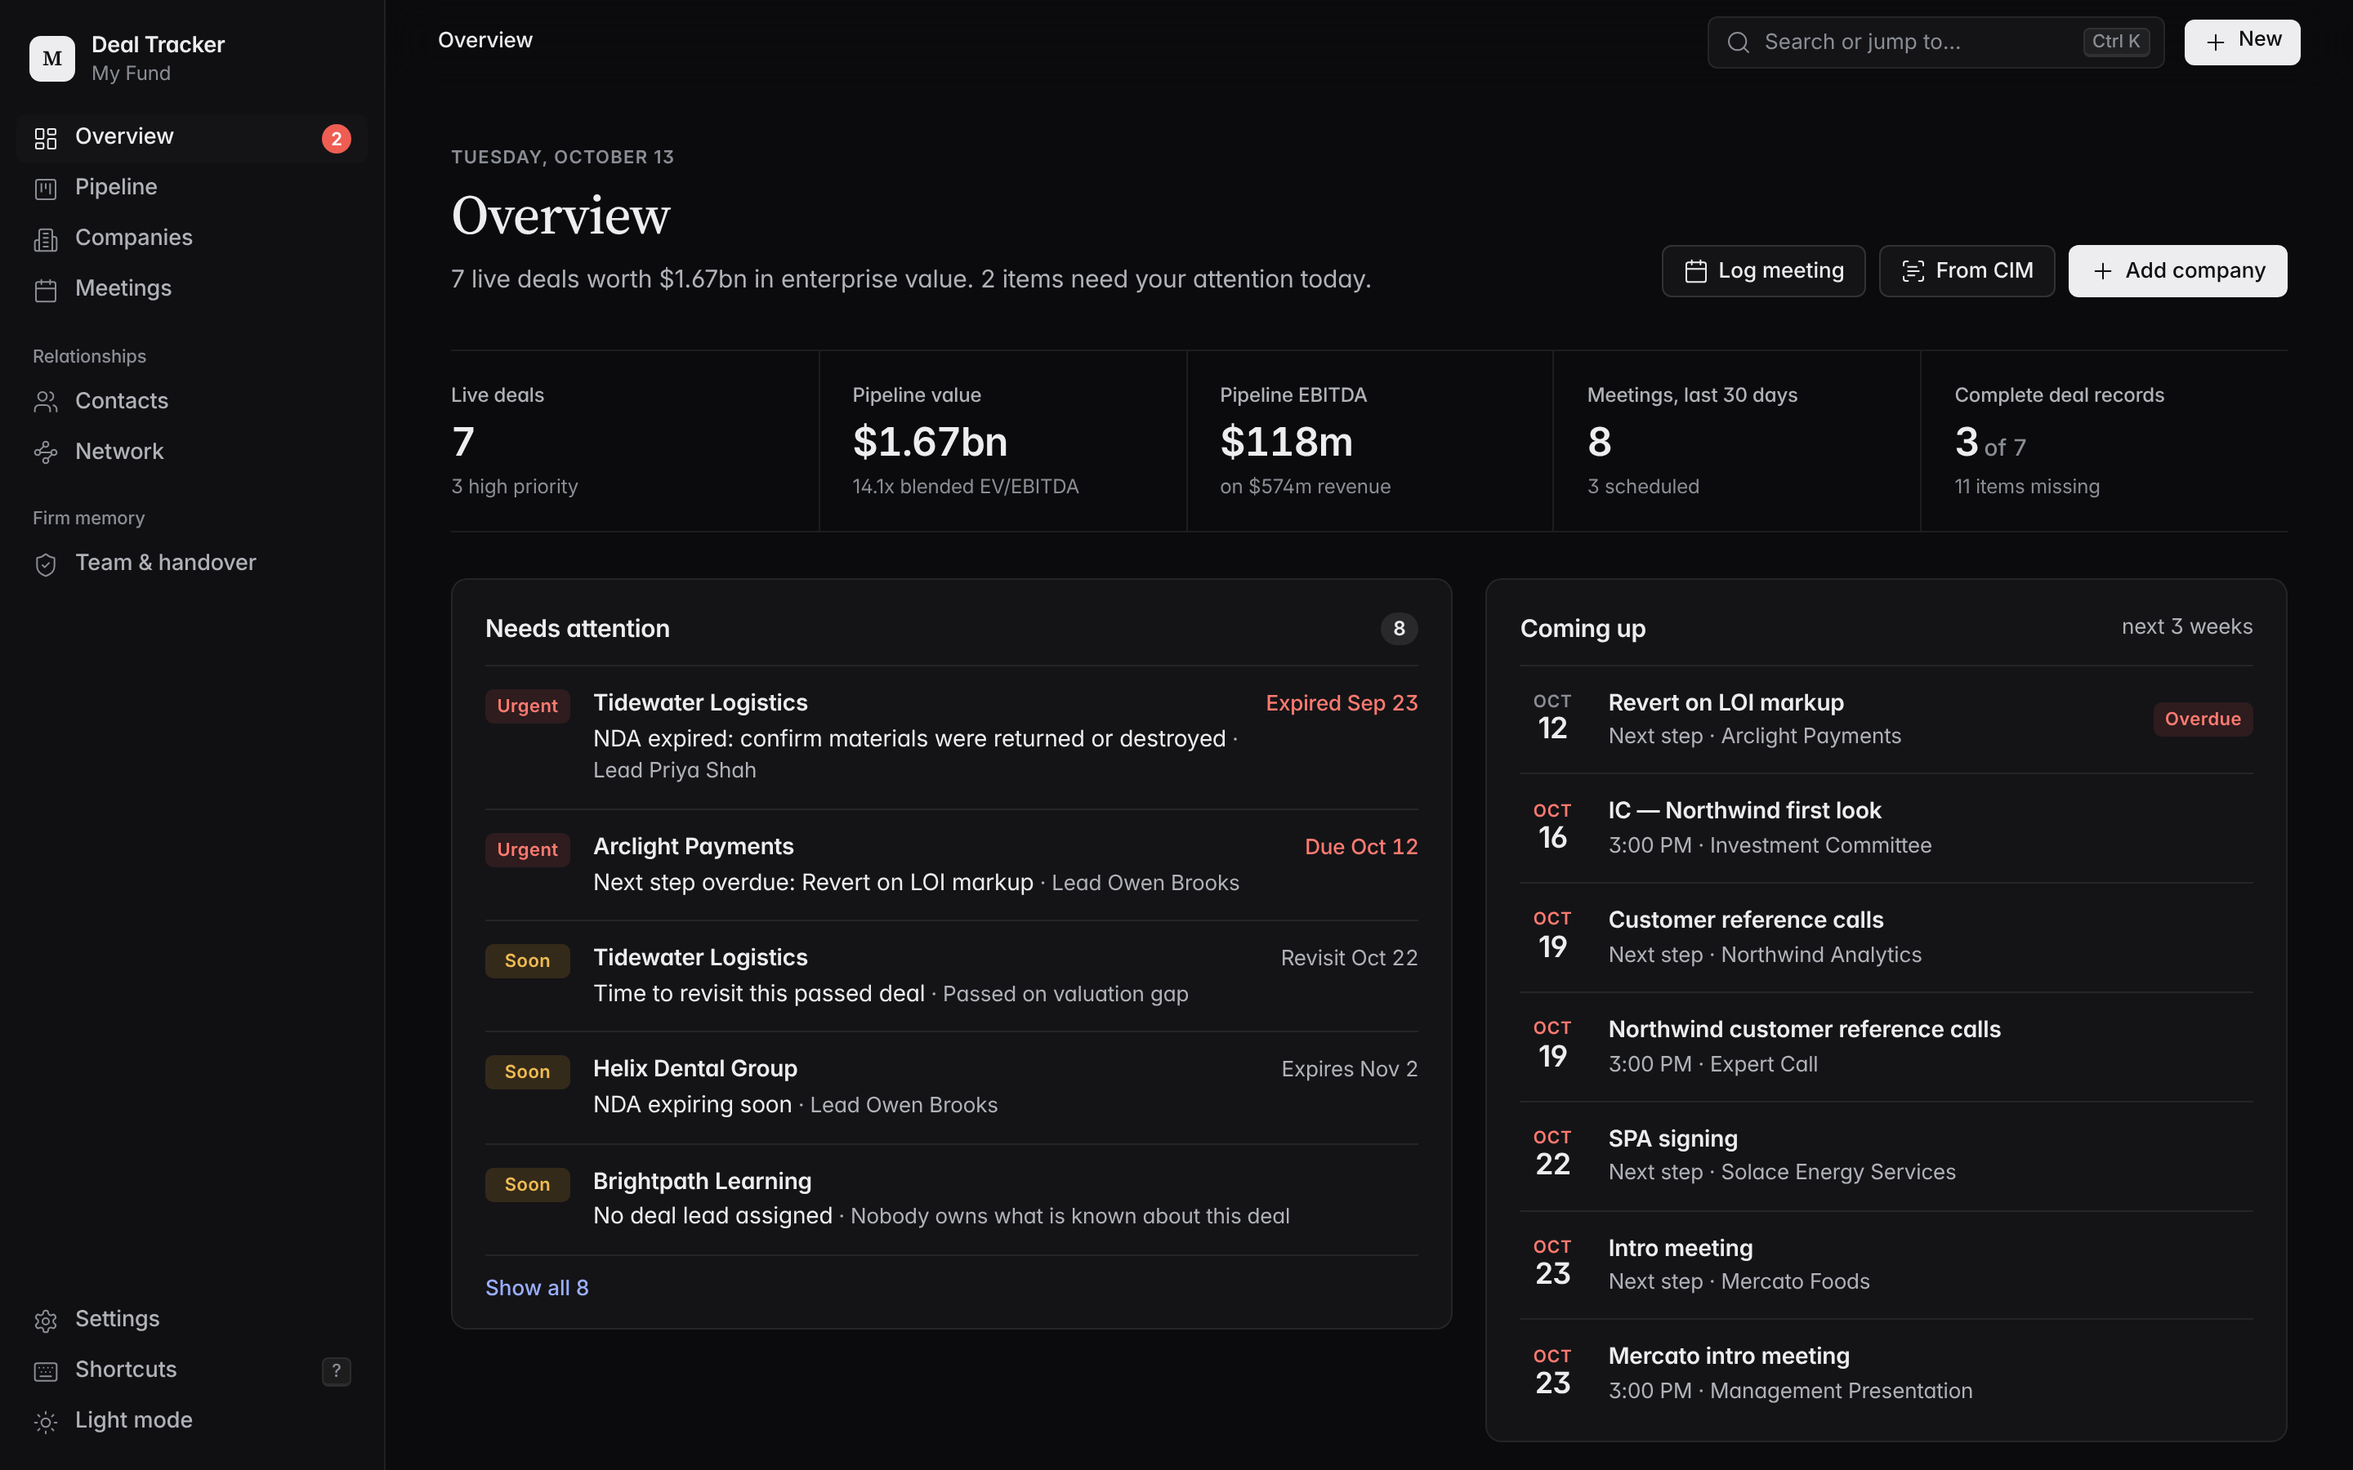
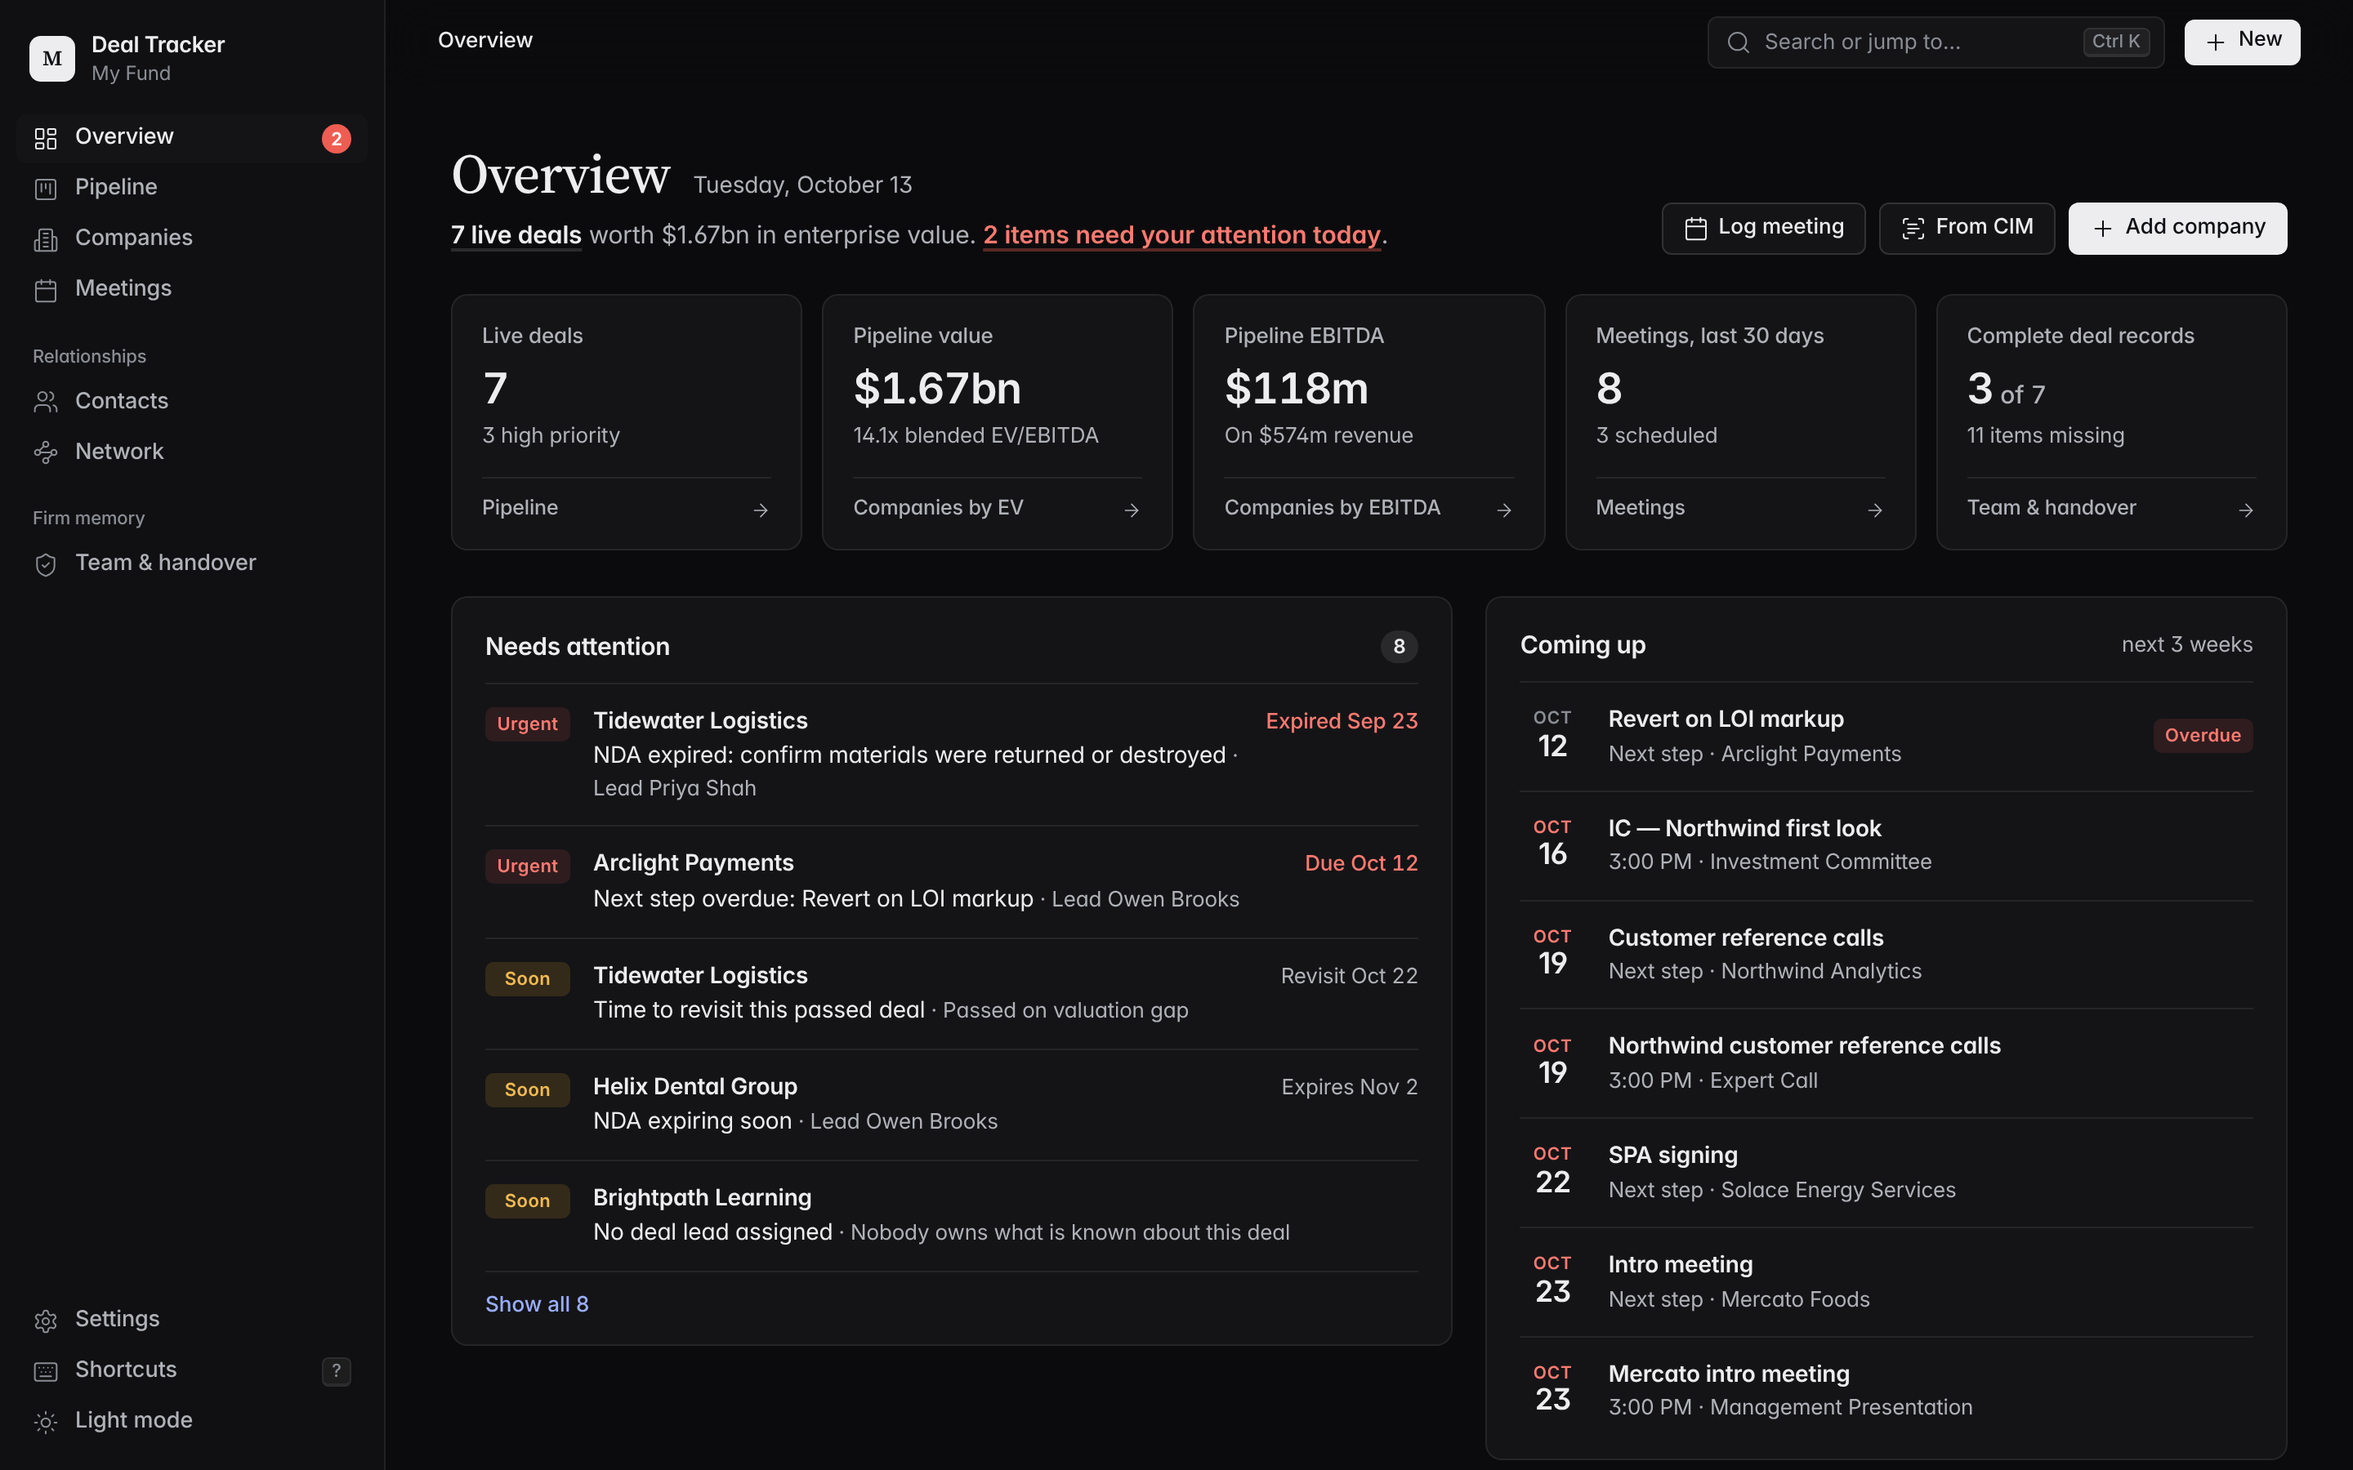
Make the overview header and key figures navigable
The five headline figures looked like plain text: only one was a link, it
looked the same as the others, and its native tooltip covered the number.

- Each key figure is now a tile that opens where the number comes from,
  with the destination named on the tile and a clear hover state:
  Live deals to Pipeline, Pipeline value and EBITDA to the Companies table
  sorted by EV or EBITDA, Meetings to Meetings, deal records to Team
- Companies can be opened in a chosen view and sort from other pages
- Header is tighter: date beside the title; "7 live deals" links to the
  pipeline and "2 items need your attention" scrolls to that panel
- No tooltip overlaps a figure; tiles collapse to two columns on phones

Claude-Session: https://claude.ai/code/session_01L2EjSS2FrnJcv1pTyVjxMj

diff --git a/static/js/views/dashboard.js b/static/js/views/dashboard.js
@@ -3,6 +3,7 @@ import { html, raw, $, $$, logo, money, num, ago, fmtDate, fmtTime, dateBlock, p
 import { hbars, columns } from '../charts.js';
 import { quickNew, setCrumbs } from '../app.js';
 import { contactView, hasDemo, clearDemo, demoSummary } from '../forms.js';
+import { openCompanies } from './companies.js';
 
 const ATTN_ICON = { overdue: 'timer', nda: 'nda', revisit: 'revisit', stale: 'stale', owner: 'noLead', cold: 'cold' };
 const prettyDates = (s) => (s || '').replace(/\d{4}-\d{2}-\d{2}/g, (d) => fmtDate(d, { day: 'numeric', month: 'short', year: 'numeric' }));
@@ -40,6 +41,16 @@ function formatFig(v, fmt, cur) {
 }
 const fig = (value, fmt = 'int', cur = '') => formatFig(value || 0, fmt, cur);
 
+// A key figure that is also the way into its detail: the whole tile is the link.
+function kpi({ href, open, label, value, sub, to }) {
+  return html`<a class="kpi" href="${href || '#/companies'}" ${open ? html`data-open="${open}"` : ''} aria-label="${label}. Open ${to}">
+    <span class="label">${label}</span>
+    <span class="value">${value}</span>
+    <span class="sub">${sub}</span>
+    <span class="go">${to}${ic('arrowRight')}</span>
+  </a>`;
+}
+
 export async function renderDashboard(view) {
   setCrumbs([{ label: 'Overview' }]);
   const [d, companies] = await Promise.all([api.get('/api/dashboard'), api.get('/api/companies')]);
@@ -66,34 +77,35 @@ export async function renderDashboard(view) {
   const stageOrder = store.meta.settings.stages;
   const deals = [...live].sort((a, b) => stageOrder.indexOf(b.stage) - stageOrder.indexOf(a.stage) || (b.ev || 0) - (a.ev || 0));
   const today = new Date().toISOString().slice(0, 10);
-  const sentence = `${k.live_deals} live deal${k.live_deals === 1 ? '' : 's'} worth ${money(k.pipeline_ev, cur)} in enterprise value. `
-    + (urgent ? `${urgent} item${urgent === 1 ? '' : 's'} need${urgent === 1 ? 's' : ''} your attention today.` : 'Nothing urgent today.');
   const ATTN_SHOWN = 5;
 
   view.innerHTML = String(html`
     ${hasDemo() ? html`<div class="banner"><span class="ico">${ic('layers')}</span>
       <div style="flex:1;min-width:0"><b>You're exploring sample data</b><p>${demoSummary()} are examples. Clearing them keeps anything you've added.</p></div>
       <button class="btn sm" id="clear-demo">Clear sample data</button></div>` : ''}
-    <div class="page-head">
-      <div><span class="eyebrow">${new Date().toLocaleDateString(undefined, { weekday: 'long', day: 'numeric', month: 'long' })}</span>
-        <h1>Overview</h1><p>${sentence}</p></div>
+    <header class="ov-head">
+      <div>
+        <div class="ov-title"><h1>Overview</h1><span class="ov-date">${new Date().toLocaleDateString(undefined, { weekday: 'long', day: 'numeric', month: 'long' })}</span></div>
+        <p class="ov-summary"><a href="#/pipeline">${k.live_deals} live deal${k.live_deals === 1 ? '' : 's'}</a> worth ${money(k.pipeline_ev, cur)} in enterprise value.
+          ${urgent ? html`<button type="button" class="ov-jump" id="jump-attn">${urgent} item${urgent === 1 ? '' : 's'} need${urgent === 1 ? 's' : ''} your attention today</button>.` : 'Nothing urgent today.'}</p>
+      </div>
       <div class="btn-row">
         <button class="btn" data-qn="meeting">${ic('meetings')}Log meeting</button>
         <button class="btn" data-qn="cim">${ic('scan')}From CIM</button>
         <button class="btn primary" data-qn="company">${ic('plus')}Add company</button>
       </div>
-    </div>
+    </header>
 
-    <div class="strip" id="strip">
-      <div><div class="label">Live deals</div><div class="value">${fig(k.live_deals)}</div><div class="sub">${k.high_priority} high priority</div></div>
-      <div><div class="label">Pipeline value</div><div class="value">${fig(k.pipeline_ev, 'money', cur)}</div><div class="sub">${blended ? `${mult(blended)} blended EV/EBITDA` : 'enterprise value'}</div></div>
-      <div><div class="label">Pipeline EBITDA</div><div class="value">${fig(k.pipeline_ebitda, 'money', cur)}</div><div class="sub">on ${money(k.pipeline_revenue, cur)} revenue</div></div>
-      <div><div class="label">Meetings, last 30 days</div><div class="value">${fig(k.meetings_30d)}</div><div class="sub">${d.upcoming_meetings.length} scheduled</div></div>
-      <a href="#/team" title="Deals with lead, description, CIM facts, model, notes, people and next step all on record"><div class="label">Complete deal records</div><div class="value">${fig(d.records.complete)}<small>of ${d.records.live}</small></div><div class="sub">${d.records.gaps ? `${d.records.gaps} item${d.records.gaps === 1 ? '' : 's'} missing` : 'nothing missing'}</div></a>
-    </div>
+    <nav class="kpis" aria-label="Key figures">
+      ${kpi({ href: '#/pipeline', label: 'Live deals', value: fig(k.live_deals), sub: `${k.high_priority} high priority`, to: 'Pipeline' })}
+      ${kpi({ open: 'ev', label: 'Pipeline value', value: fig(k.pipeline_ev, 'money', cur), sub: blended ? `${mult(blended)} blended EV/EBITDA` : 'Enterprise value', to: 'Companies by EV' })}
+      ${kpi({ open: 'ebitda', label: 'Pipeline EBITDA', value: fig(k.pipeline_ebitda, 'money', cur), sub: `On ${money(k.pipeline_revenue, cur)} revenue`, to: 'Companies by EBITDA' })}
+      ${kpi({ href: '#/meetings', label: 'Meetings, last 30 days', value: fig(k.meetings_30d), sub: `${d.upcoming_meetings.length} scheduled`, to: 'Meetings' })}
+      ${kpi({ href: '#/team', label: 'Complete deal records', value: html`${fig(d.records.complete)}<small>of ${d.records.live}</small>`, sub: d.records.gaps ? `${d.records.gaps} item${d.records.gaps === 1 ? '' : 's'} missing` : 'Nothing missing', to: 'Team & handover' })}
+    </nav>
 
     <div class="dash-row">
-      <section class="panel dash-panel">
+      <section class="panel dash-panel" id="attn-panel">
         <div class="panel-head"><h2>Needs attention</h2>${d.attention.length ? html`<span class="count">${d.attention.length}</span>` : ''}</div>
         <div id="attn">${attentionList(d.attention.slice(0, ATTN_SHOWN))}</div>
         ${d.attention.length > ATTN_SHOWN ? html`<button class="panel-more" id="attn-more">Show all ${d.attention.length}</button>` : ''}
@@ -153,6 +165,12 @@ export async function renderDashboard(view) {
     </section>`);
 
   view.querySelectorAll('[data-qn]').forEach((b) => b.addEventListener('click', () => quickNew(b.dataset.qn)));
+  view.querySelectorAll('[data-open]').forEach((a) => a.addEventListener('click', (e) => { e.preventDefault(); openCompanies({ mode: 'table', sort: a.dataset.open }); }));
+  $('#jump-attn', view)?.addEventListener('click', () => {
+    const p = $('#attn-panel', view);
+    p.scrollIntoView({ behavior: matchMedia('(prefers-reduced-motion: reduce)').matches ? 'auto' : 'smooth', block: 'start' });
+    p.classList.remove('flash'); void p.offsetWidth; p.classList.add('flash');
+  });
   $('#clear-demo', view)?.addEventListener('click', (e) => withBusy(e.currentTarget, () => clearDemo()));
   bindAttention($('#attn', view), () => renderDashboard(view));
   $('#attn-more', view)?.addEventListener('click', (e) => { $('#attn', view).innerHTML = String(attentionList(d.attention)); e.currentTarget.remove(); });

diff --git a/static/css/app.css b/static/css/app.css
@@ -921,3 +921,39 @@ code.path { display: block; font: 12px/1.5 var(--mono); padding: 8px 10px; borde
   .feed-row { flex-direction: column; gap: 2px; }
   .dash-panel { padding: 4px 16px 6px; }
 }
+
+/* overview header: title and date on one line, summary facts are links */
+.ov-head { display: flex; gap: 24px; align-items: flex-end; justify-content: space-between; flex-wrap: wrap; margin-bottom: 24px; }
+.ov-title { display: flex; align-items: baseline; gap: 14px; flex-wrap: wrap; }
+.ov-date { font-size: 14px; color: var(--ink-2); }
+.ov-summary { margin: 8px 0 0; font-size: 15px; color: var(--ink-2); max-width: 680px; }
+.ov-summary a, .ov-jump { color: var(--ink); font-weight: 600; text-decoration: underline; text-decoration-color: var(--line-2); text-underline-offset: 3px; text-decoration-thickness: 1.5px; }
+.ov-jump { border: 0; background: none; padding: 0; font: inherit; font-weight: 600; cursor: pointer; color: var(--bad-ink); text-decoration-color: color-mix(in srgb, var(--bad) 35%, transparent); }
+.ov-summary a:hover, .ov-jump:hover { text-decoration-color: currentColor; }
+
+/* key figures: each tile is a link to where the number comes from */
+.kpis { display: grid; grid-template-columns: repeat(5, minmax(0, 1fr)); gap: 12px; }
+.kpi { position: relative; display: flex; flex-direction: column; padding: 16px 18px 14px; background: var(--surface); border: 1px solid var(--line); border-radius: var(--r-2); color: var(--ink); transition: border-color var(--dur-1), box-shadow var(--dur-2) var(--ease), transform var(--dur-2) var(--ease); }
+.kpi:hover { border-color: var(--line-2); box-shadow: var(--shadow-2); transform: translateY(-1px); }
+.kpi:focus-visible { outline: 2px solid var(--accent); outline-offset: 2px; }
+.kpi .label { font-size: 13px; font-weight: 500; color: var(--ink-2); }
+.kpi .value { font: 600 26px/1.15 var(--sans); letter-spacing: -.02em; margin-top: 8px; font-variant-numeric: tabular-nums; white-space: nowrap; }
+.kpi .value small { font-size: 15px; font-weight: 500; color: var(--ink-2); margin-left: 4px; letter-spacing: 0; }
+.kpi .sub { font-size: 13px; color: var(--ink-2); margin-top: 4px; }
+.kpi .go { display: flex; align-items: center; gap: 4px; margin-top: 14px; padding-top: 10px; border-top: 1px solid var(--line); font-size: 12.5px; font-weight: 500; color: var(--ink-2); }
+.kpi .go svg.i { width: 13px; height: 13px; margin-left: auto; transition: transform var(--dur-2) var(--ease); }
+.kpi:hover .go { color: var(--accent-ink); }
+.kpi:hover .go svg.i { transform: translateX(3px); }
+
+.dash-panel.flash { animation: flash 1.2s var(--ease); }
+@keyframes flash { 0%, 40% { box-shadow: 0 0 0 3px var(--accent-soft), 0 0 0 1px var(--accent); } 100% { box-shadow: none; } }
+
+@media (max-width: 1100px) { .kpis { grid-template-columns: repeat(3, minmax(0, 1fr)); } }
+@media (max-width: 600px) { .kpis { grid-template-columns: repeat(2, minmax(0, 1fr)); gap: 8px; } .kpi { padding: 12px 14px; } .kpi .value { font-size: 22px; } }
+#attn-panel { scroll-margin-top: 72px; }
+@media (max-width: 600px) {
+  .kpi .go { position: absolute; top: 12px; right: 12px; margin: 0; padding: 0; border: 0; font-size: 0; }
+  .kpi .go svg.i { width: 15px; height: 15px; }
+  .kpi .label { padding-right: 18px; }
+  .kpi:last-child:nth-child(odd) { grid-column: 1 / -1; }
+}

diff --git a/static/js/views/companies.js b/static/js/views/companies.js
@@ -7,6 +7,13 @@ const state = { q: '', stage: '', sector: '', region: '', priority: '', mode: 'g
 try { Object.assign(state, JSON.parse(localStorage.getItem('dt-companies') || '{}')); } catch { /* ignore */ }
 const persist = () => { try { localStorage.setItem('dt-companies', JSON.stringify({ mode: state.mode, sort: state.sort, asc: state.asc })); } catch { /* ignore */ } };
 
+// Other views can open the list in a given view, e.g. the overview's "Pipeline value" opens it as a table sorted by EV.
+export function openCompanies({ mode, sort, asc = false } = {}) {
+  Object.assign(state, { q: '', stage: '', sector: '', region: '', priority: '' }, mode ? { mode } : {}, sort ? { sort, asc } : {});
+  persist();
+  location.hash = '#/companies';
+}
+
 const COLS = [
   ['name', 'Company'], ['stage', 'Stage'], ['sector', 'Sector'], ['country', 'Country'], ['ev', 'EV', 'r'], ['revenue', 'Revenue', 'r'],
   ['ebitda', 'EBITDA', 'r'], ['ebitda_margin', 'Margin', 'r'], ['ev_ebitda', 'EV/EBITDA', 'r'], ['meeting_count', 'Mtgs', 'r'], ['updated_at', 'Updated', 'r'],

diff --git a/docs/DESIGN.md b/docs/DESIGN.md
@@ -86,6 +86,7 @@ The first premium pass made the overview look calm but read slowly. Nine section
 - **Readable sizes.** Row text is 14 px ink, secondary lines 13 px in `--ink-2`. `--ink-3` is for timestamps and labels only, never for anything you need to read.
 - **Status in words.** Attention items carry "Urgent", "Soon" or "FYI" and a date ("Due Oct 12"), not only a coloured dot.
 - **Tables for comparison.** Pipeline by stage and live deals are tables with right-aligned, tabular figures and full stage names. A chart is used only when the shape matters more than the values.
+- **Every number is a way in.** Each key figure on the overview is a tile that opens where the number comes from (Pipeline, Companies sorted by EV or EBITDA, Meetings, Team), with the destination named on the tile. Facts in the summary sentence are links too. No native tooltips sit on top of figures.
 - **Subject first.** Rows lead with the company, then what happened, then the detail, without em-dashes or run-on labels.
 
 ## Sources
